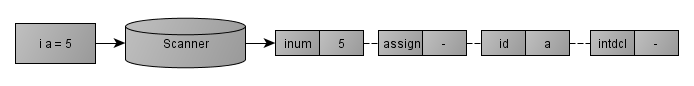
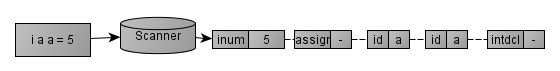
updated compiler theory with pwetty figures

Changed region(s): [[0.0, 0.1972, 1.0, 0.8169]]

diff --git a/report/tex/analysis/compiler_theory.tex b/report/tex/analysis/compiler_theory.tex
@@ -19,9 +19,10 @@ It is very important to have a formal definition of the tokens so that lexical r
 Tokens have two components: a type and a semantic value, the first indicating the token's membership in the terminal alphabet, the latter providing information about the token, if any is needed.
 An example where the semantic value may not be needed is a terminal like "plus" in a simple calculator language. That terminal can only correspond to one token, namely the +. However for, say, a number it is important to have a semantic value to denote what number it is.
 When the scanner tries to determine what kind of token is being scanned it will have a method that looks ahead, without removing the characters from the stream. Several algorithms for determining membership in the terminal alphabet can be employed, and often the scanner will also be instructed to skip certain parts of the code, like blanks and comment sections.
-An example of the scanners token generation is shown below, with the line
+An example of the scanners token generation is shown below, with the lines
 \begin{lstlisting}
-i a = 5
+i a 
+a = 5
 \end{lstlisting}
 
 This generates 4 tokens: 
@@ -35,15 +36,25 @@ This generates 4 tokens:
 These tokens are then streamed to the parser. The process is illustrated below:
 \begin{figure}[ht]
 	\centering
-		\includegraphics[scale = 0.5]{img/scanner.png}
+		\includegraphics[scale = 0.6]{img/scanner.png}
 	\caption{Scanner Phase}
 	\label{fig:scanner}
 \end{figure}
 
 
 \subsection{The Abstract Syntax Tree}
-The AST is a data structure generated by the Parser. It represents the structure of the source code. The root of the AST is the token representing the start variable in the grammar, e.g. "Program". The children of the root, and their children, are the variables or terminals that can be substituted for the parent. As an example, "Program" can be substituted with either "Decls" (declarations) or "Stmts" (statements) so these are the legal children of the root. 
+The AST is a data structure generated by the Parser. It represents the structure of the source code. The root of the AST is the token representing the start variable in the grammar, e.g. "Program". The children of the root, and their children, are the variables or terminals that can be substituted for the parent. As an example, "Program" can be substituted with either "Decls" (declarations) or "Stmts" (statements) so these are the legal children of the root.
 
+An AST of the tokens above is shown here:
+
+\begin{figure}[ht]
+	\centering
+		\includegraphics[scale = 0.7]{img/ast.png}
+	\caption{Abstract Syntax Tree}
+	\label{fig:ast}
+\end{figure} 
+
+\newpage
 \subsection{The Parser}
 
 The parser is the phase of the compiler that generates the AST. It checks whether the tokens generated by the scanner conform to the syntactical structure defined by the grammar of the language. 
@@ -60,6 +71,15 @@ An LR(k)-parser reads tokens until only one production rule applies. For each no
 
 The top-down approach to parsing is easy and quickly implemented and therefore often used, however they cannot parse grammars where tokens share common prefixes, or grammars with left-recursive rules, and thus LR-parsers are considered stronger parsers.
 
+The parsing phase can be illustrated as such:
+
+\begin{figure}[ht]
+	\centering
+		\includegraphics[scale = 0.5]{img/parser.png}
+	\caption{Parser Phase}
+	\label{fig:parser}
+\end{figure}
+
 \subsection{The Symbol Table}
 
 The symbol table is a central table accessible from all compiler phases which, as mentioned, contains all identifiers and the information that is associated with these. When the declaration of an identifier is recognised by the type checker, it is stored in the symbol table along with its scope, type, so that the next time it is used it can be retrieved from the table.
@@ -69,5 +89,23 @@ The semantic analysis creates what is called a decorated AST. It checks what is 
 
 A type can be defined as "any property of a program that we can establish without executing the program" \cite{Krishnamurthi2007}. The definition of types varies from language to language, but common for all is the notion that types are a certain set of values, and some operations on these values, that behave the same every time the program is run. As an example a Boolean type has only the values true and false. 
 
+The decorated AST of the example code is shown here:
+
+\begin{figure}[ht]
+	\centering
+		\includegraphics[scale = 0.6]{img/dast.png}
+	\caption{Decorated AST}
+	\label{fig:dast}
+\end{figure}
+
 \subsection{The Code Generator}
 This is where the target code is generated from the decorated AST. This phase requires detailed knowledge of the target machine, e.g. register allocation, code scheduling and more. This phase is frequently coded by hand instead of using a tool, and a good code generator requires many special cases to be considered.
+
+The final phase of the example code is shown here:
+
+\begin{figure}[ht]
+	\centering
+		\includegraphics[scale = 0.6]{img/codegeneration.png}
+	\caption{Code Generation}
+	\label{fig:codegen}
+\end{figure}
